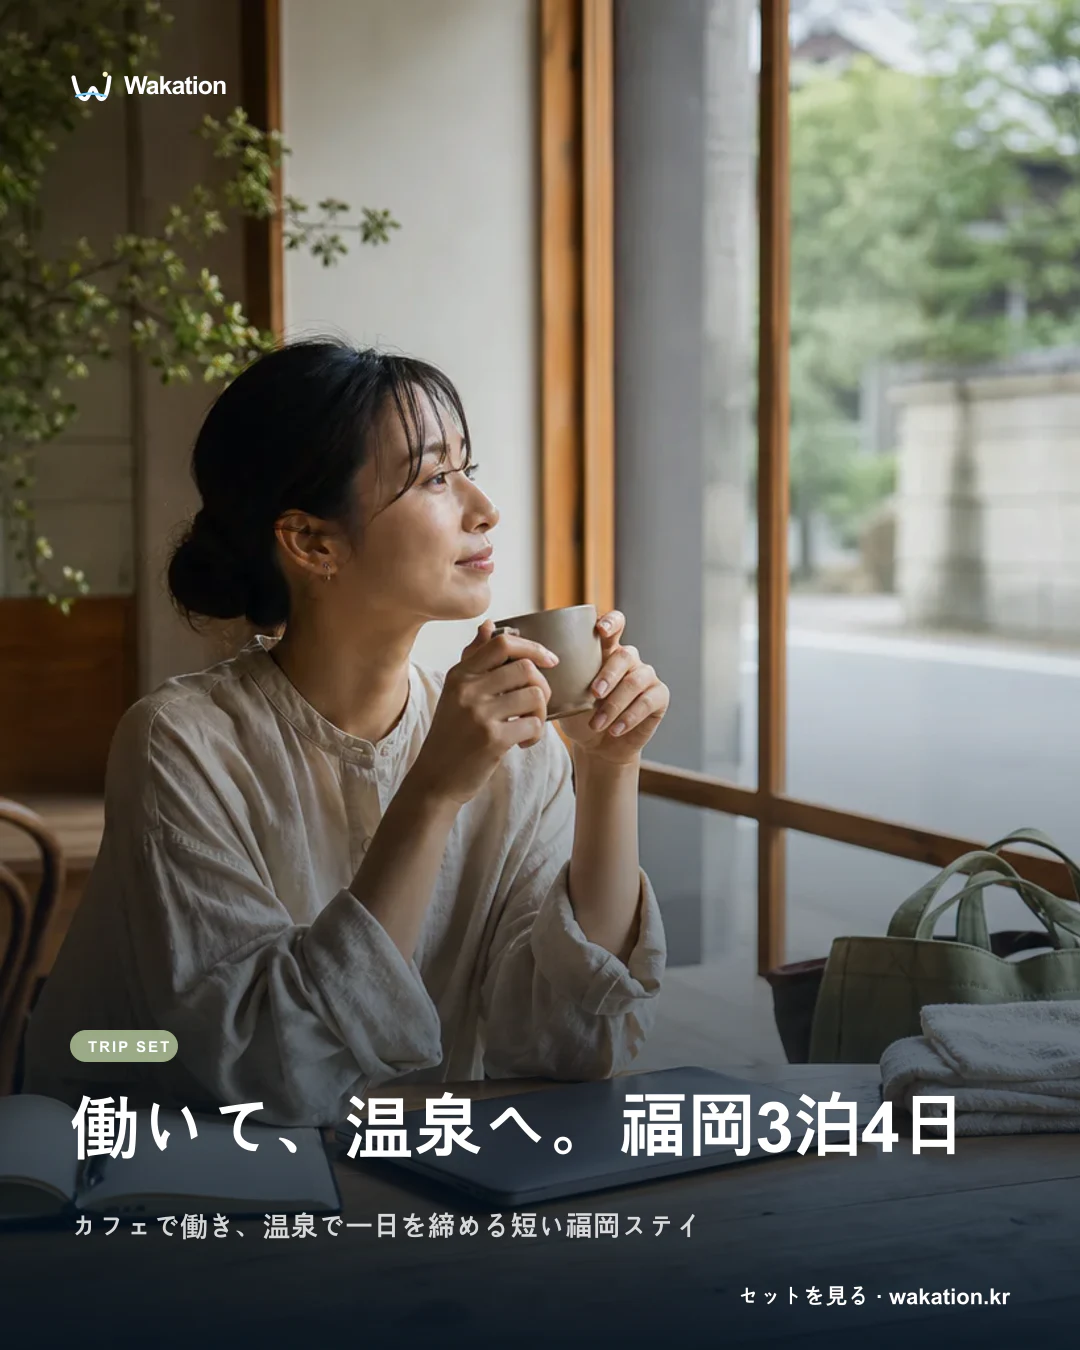
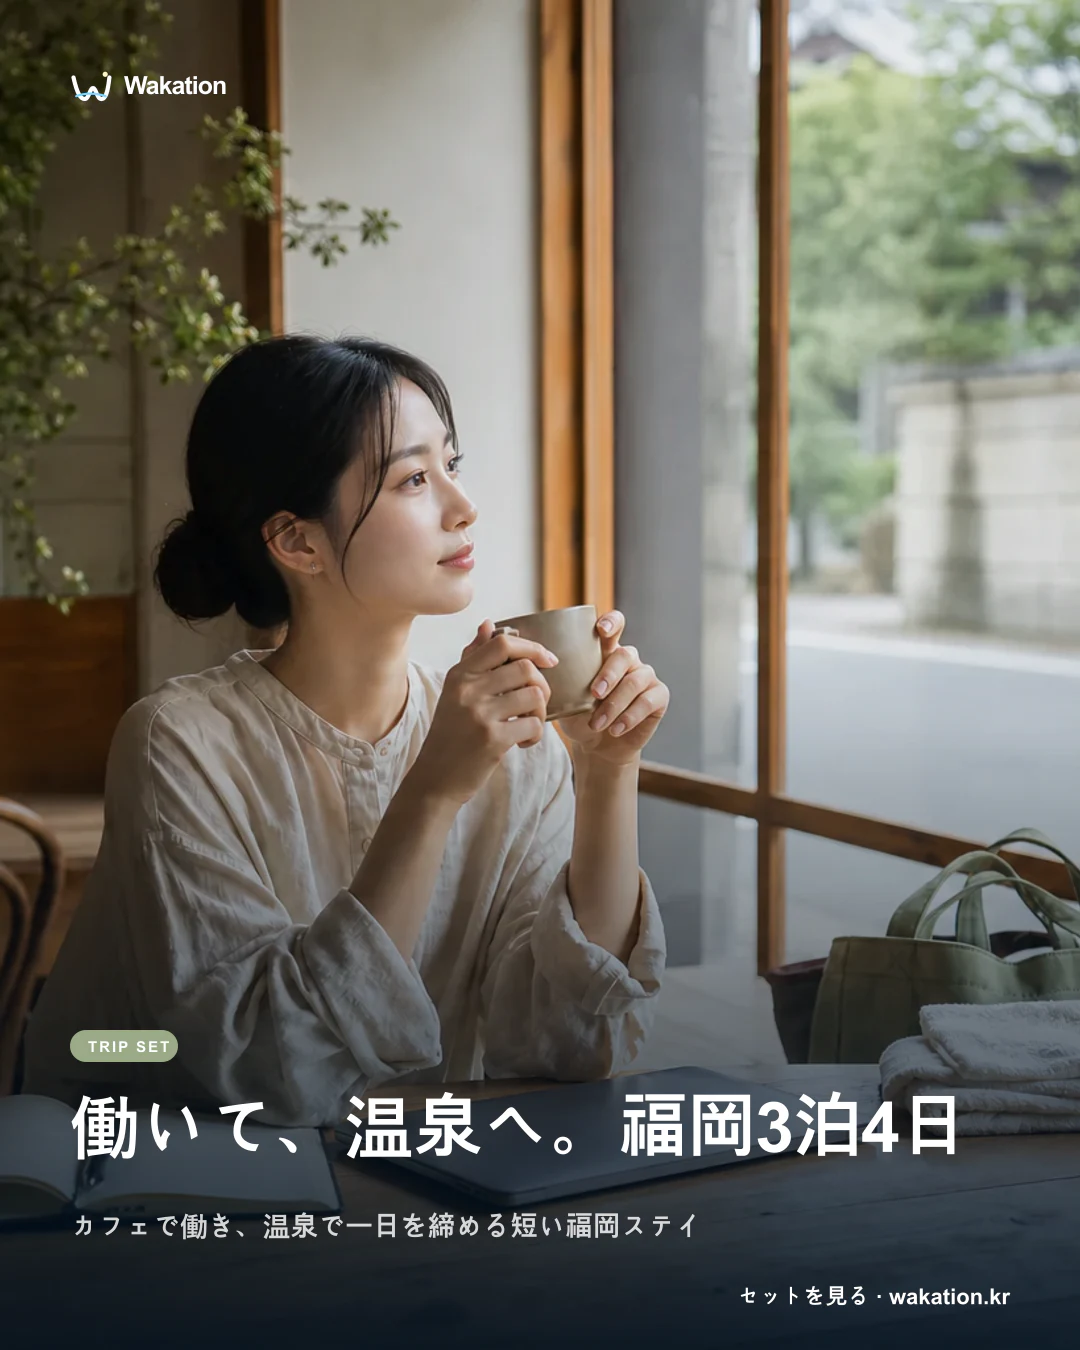
feat(media): rotate Fukuoka editorial model
Replace the Fukuoka Trip Set cafe hero and connected home cards with a consistent WAK-MODEL-G late-summer editorial scene while preserving the original pose and composition. Refresh the linked Itoshima coastal experience visual with the same model identity, record provenance and usage restrictions in the media manifest, register deterministic placements, and regenerate Fukuoka social/OG derivatives. Affiliate URLs, tracking parameters, disclosures, and booking behavior are unchanged.

Changed region(s): [[0.1528, 0.2489, 0.5194, 0.6222], [0.1222, 0.3111, 0.2139, 0.4667], [0.1528, 0.5911, 0.1833, 0.6222]]

diff --git a/src/lib/media/assets.ts b/src/lib/media/assets.ts
@@ -622,8 +622,38 @@ export const MEDIA_ASSETS: MediaAsset[] = [
     createdAt: '2026-07-31',
   },
   {
-    id: 'itoshima-coast-editorial-v1',
-    src: '/campaign/itoshima-coast-editorial-v1.webp',
+    id: 'trip-set-fukuoka-model-g-cafe-v2',
+    src: '/campaign/trip-sets/fukuoka-3n4d-editorial-model-g-v2.webp',
+    alt: {
+      KO: '햇살이 드는 카페 창가에서 두 손으로 찻잔을 들고 쉬는 성인 여행자',
+      EN: 'An adult traveler holding a cup with both hands beside a sunlit cafe window',
+      JP: '陽射しの入るカフェの窓辺で、カップを両手に持ってひと休みする大人の旅行者',
+    },
+    sourceType: 'generated',
+    usage: 'editorial',
+    illustrative: true,
+    width: 1536,
+    height: 1024,
+    modelId: 'WAK-MODEL-G',
+    localeUsage: ['ko', 'en', 'ja'],
+    seasonalUsage: ['late-summer'],
+    routeUsage: ['/', '/en', '/ja', '/collections/fukuoka-3n4d', '/en/collections/fukuoka-3n4d', '/ja/collections/fukuoka-3n4d', '/campaign/japan-short-stay'],
+    sectionUsage: ['home-mood', 'home-duration', 'trip-set-hero', 'campaign-choice', 'navigation-campaign'],
+    generatedFromReferenceIds: ['wak-model-g-clean-romantic-identity-anchor'],
+    focalPoints: { desktop: { x: 0.48, y: 0.48 }, mobile: { x: 0.48, y: 0.48 } },
+    source: 'OpenAI built-in image generation using the approved WAK-MODEL-G identity reference',
+    license: 'User-controlled generated brand editorial asset',
+    createdAt: '2026-08-10',
+    verifiedAt: '2026-08-10',
+    restriction: {
+      KO: '실제 고객·참가자·숙소·체험 현장 사진으로 표현하지 않는다.',
+      EN: 'Do not present as a real customer, participant, stay or experience photograph.',
+      JP: '実在の顧客・参加者・宿泊施設・体験現場の写真として表現しない。',
+    },
+  },
+  {
+    id: 'itoshima-coast-editorial-model-g-v2',
+    src: '/campaign/itoshima-coast-editorial-model-g-v2.webp',
     alt: {
       KO: '바다를 바라보며 카메라를 든 여행자의 이토시마 분위기 장면',
       EN: 'A traveler with a camera overlooking a coast inspired by Itoshima',
@@ -632,10 +662,24 @@ export const MEDIA_ASSETS: MediaAsset[] = [
     sourceType: 'generated',
     usage: 'editorial',
     illustrative: true,
+    width: 1536,
+    height: 1024,
+    modelId: 'WAK-MODEL-G',
+    localeUsage: ['ko', 'en', 'ja'],
+    seasonalUsage: ['late-summer'],
+    routeUsage: ['/experiences/itoshima-photo-bus-tour', '/en/experiences/itoshima-photo-bus-tour', '/ja/experiences/itoshima-photo-bus-tour', '/select/activity'],
+    sectionUsage: ['experience-editorial-hero', 'activity-card'],
+    generatedFromReferenceIds: ['wak-model-g-clean-romantic-identity-anchor', 'trip-set-fukuoka-model-g-cafe-v2'],
     focalPoint: { x: 0.68, y: 0.5 },
-    source: 'OpenAI image generation; Wakation editorial direction',
-    license: 'Wakation-owned generated editorial asset',
-    createdAt: '2026-07-30',
+    source: 'OpenAI built-in image generation using the approved WAK-MODEL-G identity reference',
+    license: 'User-controlled generated brand editorial asset',
+    createdAt: '2026-08-10',
+    verifiedAt: '2026-08-10',
+    restriction: {
+      KO: '실제 체험 참가자·가이드·운영 차량·코스 현장 사진으로 표현하지 않는다.',
+      EN: 'Do not present as a real participant, guide, operator vehicle or tour-course photograph.',
+      JP: '実在の体験参加者・ガイド・運営車両・ツアーコースの写真として表現しない。',
+    },
   },
   {
     id: 'programs-editorial-coastal-work-v1',

diff --git a/src/lib/media/modelRotation.ts b/src/lib/media/modelRotation.ts
@@ -35,6 +35,8 @@ export const EDITORIAL_MODEL_PLACEMENTS: EditorialModelPlacement[] = [
   { id: 'growth-hero', routes: ['/growth'], section: 'growth-hero', modelIds: ['WAK-MODEL-B'], assetIds: ['growth-model-b-urban-learning-desktop-v1', 'growth-model-b-urban-learning-mobile-v1'], primaryHref: '/learn', status: 'active' },
   { id: 'business-hero', routes: ['/business'], section: 'business-hero', modelIds: ['WAK-MODEL-C', 'WAK-MODEL-H', 'WAK-MODEL-K'], assetIds: ['business-models-c-h-k-late-summer-team-desktop-v2', 'business-models-c-h-k-late-summer-team-mobile-v2'], primaryHref: '#inquiry', status: 'active' },
   { id: 'japan-short-stay-hero', routes: ['/campaign/japan-short-stay'], section: 'campaign-japan-short-stay-hero', modelIds: ['WAK-MODEL-F'], assetIds: ['campaign-model-f-japan-choice-desktop-v1', 'campaign-model-f-japan-choice-mobile-v1'], primaryHref: '/trip-match?campaign=japan-short-stay', status: 'active' },
+  { id: 'fukuoka-trip-set-editorial', routes: ['/', '/en', '/ja', '/collections/fukuoka-3n4d', '/en/collections/fukuoka-3n4d', '/ja/collections/fukuoka-3n4d'], section: 'fukuoka-trip-set-editorial', modelIds: ['WAK-MODEL-G'], assetIds: ['trip-set-fukuoka-model-g-cafe-v2'], primaryHref: '/collections/fukuoka-3n4d', status: 'active' },
+  { id: 'itoshima-experience-editorial', routes: ['/experiences/itoshima-photo-bus-tour', '/en/experiences/itoshima-photo-bus-tour', '/ja/experiences/itoshima-photo-bus-tour', '/select/activity'], section: 'itoshima-experience-editorial', modelIds: ['WAK-MODEL-G'], assetIds: ['itoshima-coast-editorial-model-g-v2'], primaryHref: '/experiences/itoshima-photo-bus-tour', status: 'active' },
   { id: 'about-monthly-edit-2026-08', routes: ['/about'], section: 'monthly-model-editorial-2026-08', modelIds: ['WAK-MODEL-E', 'WAK-MODEL-G', 'WAK-MODEL-H', 'WAK-MODEL-J'], assetIds: ['monthly-2026-08-model-e-city-arrival-v2', 'monthly-2026-08-model-g-coastal-book-cafe-v1', 'monthly-2026-08-model-h-coastal-reset-v1', 'monthly-2026-08-model-j-blue-hour-v2', 'monthly-model-edit-2026-08-v2'], status: 'active' },
 ]
 

diff --git a/src/data/campaign-landings.ts b/src/data/campaign-landings.ts
@@ -72,7 +72,7 @@ export const CAMPAIGN_LANDINGS: Record<CampaignLandingConfig['id'], CampaignLand
     eyebrow: 'JAPAN · 3 NIGHTS, 4 DAYS',
     title: '가까운 일본, 지금 내게 맞는 쪽은?',
     lead: '카페와 온천의 후쿠오카, 친구와 장면을 모으는 오사카. 여행의 속도부터 고르면 준비는 짧아집니다.',
-    heroImage: '/campaign/trip-sets/fukuoka-3n4d-editorial-v1.webp',
+    heroImage: '/campaign/trip-sets/fukuoka-3n4d-editorial-model-g-v2.webp',
     heroAlt: '창가에서 차를 마시며 쉬는 여행자',
     heroPosition: '48% 48%',
     heroMediaAssetId: 'campaign-model-f-japan-choice-desktop-v1',
@@ -88,7 +88,7 @@ export const CAMPAIGN_LANDINGS: Record<CampaignLandingConfig['id'], CampaignLand
         name: '후쿠오카',
         eyebrow: 'SLOW & WARM',
         summary: '일을 조금 이어가면서도 온전히 쉬고 싶은 짧은 체류',
-        image: '/campaign/trip-sets/fukuoka-3n4d-editorial-v1.webp',
+        image: '/campaign/trip-sets/fukuoka-3n4d-editorial-model-g-v2.webp',
         alt: '차분한 창가에서 머무는 후쿠오카 감성의 여행 장면',
         imagePosition: '48% 48%',
         accent: 'coral',

diff --git a/src/lib/affiliate/items.ts b/src/lib/affiliate/items.ts
@@ -345,7 +345,7 @@ export const ALL_AFFILIATE_ITEMS: AffiliateItem[] = [
     href: 'https://affiliate.klook.com/redirect?aid=126848&k_site=https%3A%2F%2Fwww.klook.com%2Fko%2Factivity%2F115689-fukuoka-itoshima-half-day-bus-tour%2F',
     badge: '반나절 체험',
     trackingId: 'aid=126848',
-    coverPhoto: '/campaign/itoshima-coast-editorial-v1.webp',
+    coverPhoto: '/campaign/itoshima-coast-editorial-model-g-v2.webp',
     illustrative: true,
     sourceNote: 'Klook activity 115689 실물 확인, 4.9/5·후기 17건·약 5시간 (2026-07-30). 자체 제작 커버는 실제 투어 사진이 아님.',
     operatorAction: 'Klook 공식 리다이렉트 형식 적용 완료 (aid=126848, 2026-07-30)',

diff --git a/src/components/home/MoodExplorer.tsx b/src/components/home/MoodExplorer.tsx
@@ -37,7 +37,7 @@ const MOODS: { href: string; photo: string; label: L; desc: L }[] = [
     desc: { KO: '료칸과 노트북의 밸런스', EN: 'Ryokan-and-laptop balance', JP: '旅館とノートPCのバランス' },
   },
   {
-    href: '/collections/fukuoka-3n4d?src=mood', photo: '/campaign/trip-sets/fukuoka-3n4d-editorial-v1.webp',
+    href: '/collections/fukuoka-3n4d?src=mood', photo: '/campaign/trip-sets/fukuoka-3n4d-editorial-model-g-v2.webp',
     label: { KO: '카페와 미식', EN: 'Cafés & food', JP: 'カフェとグルメ' },
     desc: { KO: '후쿠오카 3박 4일 — 카페와 온천', EN: 'Fukuoka 3N4D — cafés & onsen', JP: '福岡3泊4日 — カフェと温泉' },
   },

diff --git a/src/lib/experiences/editorials.ts b/src/lib/experiences/editorials.ts
@@ -201,7 +201,7 @@ export const EXPERIENCE_EDITORIALS: ExperienceEditorial[] = [
     ],
     relatedTripSetSlugs: ['fukuoka-3n4d'],
     relatedGuideSlugs: ['fukuoka'],
-    mediaAssetIds: ['itoshima-coast-editorial-v1'],
+    mediaAssetIds: ['itoshima-coast-editorial-model-g-v2'],
     verifiedAt: '2026-07-30',
     sources: [
       { name: 'Klook activity 115689', url: 'https://www.klook.com/ko/activity/115689-fukuoka-itoshima-half-day-bus-tour/', verifiedAt: '2026-07-30', customerVisible: true },

diff --git a/src/components/home/DurationExplorer.tsx b/src/components/home/DurationExplorer.tsx
@@ -36,7 +36,7 @@ const ROWS: DurationRow[] = [
   },
   {
     key: '3n4d',
-    photo: '/campaign/trip-sets/fukuoka-3n4d-editorial-v1.webp',
+    photo: '/campaign/trip-sets/fukuoka-3n4d-editorial-model-g-v2.webp',
     label: { KO: '3박 4일', EN: '3–4 days', JP: '3泊4日' },
     hint: { KO: '연차 하루면 되는', EN: 'One day off is all it takes', JP: '有休1日あれば' },
     chips: [

diff --git a/src/lib/navigation.ts b/src/lib/navigation.ts
@@ -282,7 +282,7 @@ export function getCampaignHref(lang: Lang) {
 export function getCampaignImage(lang: Lang) {
   return lang === 'JP'
     ? '/campaign/trip-sets/busan-weekend-editorial-v1.webp'
-    : '/campaign/trip-sets/fukuoka-3n4d-editorial-v1.webp'
+    : '/campaign/trip-sets/fukuoka-3n4d-editorial-model-g-v2.webp'
 }
 
 export function getCampaignAlt(lang: Lang) {
